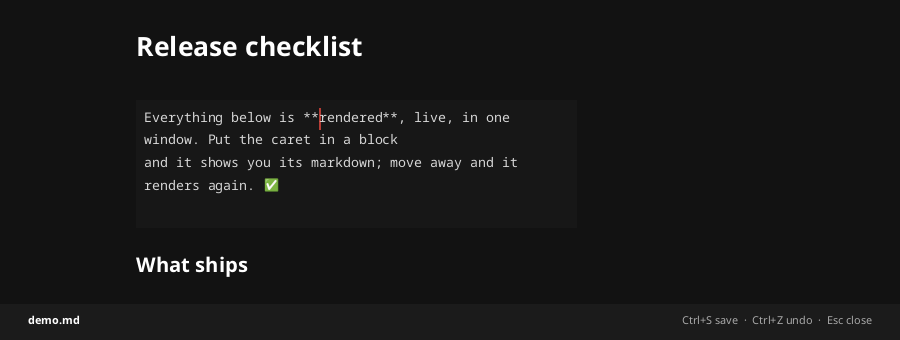
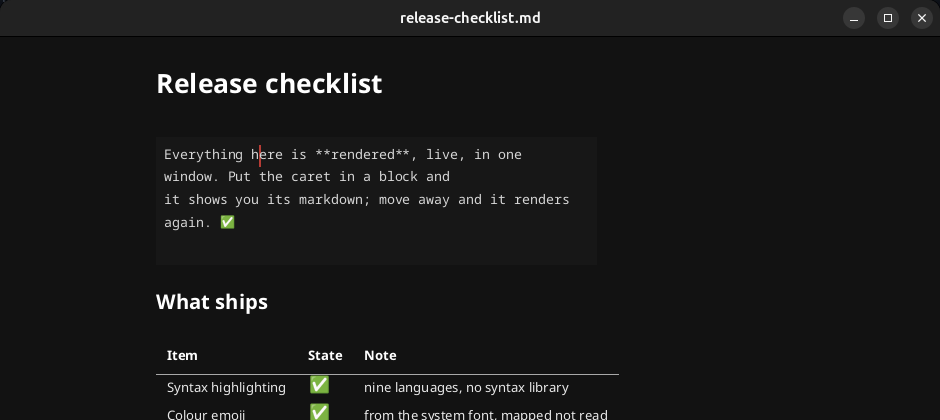
docs: screenshots of a real window, not a headless render
The README's hero already picked up the new icon -- `assets/icon.png` is
regenerated by `make-icons.py`. The two content screenshots were the stale part,
and they had a second problem worth fixing while I was there: they were `--shot`
output, which draws the document and the status bar and nothing else. No title
bar, no window. A reader could not tell what double-clicking a file actually
gives them.

These are captures of the real thing under mutter, with its decoration, titled
with the file it has open.

Getting a CLEAN rendered shot took three tries, and each failure was the program
being right:

  - The caret starts at byte 0, which is inside the first heading -- so the
    heading revealed its markdown and the "rendered" shot was an editing shot.
  - Clicking in the empty space below the content does not park the caret there.
    `Laid::hit` picks the NEAREST baseline, so a click below everything lands in
    the last block, which then revealed itself.
  - Appending trailing blank lines does not help either: pulldown-cmark's item
    ranges run to the start of the next block, so the blank lines are inside the
    list.

What works is a document that BEGINS with a blank line. Byte 0 is then before
the first block's range, `block_at` answers None, and everything renders -- with
just a caret bar where the cursor sits. Which is exactly the documented
behaviour of gaps between blocks, arrived at from the other direction.
[…]

diff --git a/README.md b/README.md
@@ -25,7 +25,7 @@ Nothing lives in the gap between "shows me the document" and "is already open".
 That gap is the whole of this program.
 
 <div align="center">
-<img src="docs/rendered.png" width="720" alt="mdblaze showing a rendered markdown document with a table, highlighted Rust, and colour emoji">
+<img src="docs/rendered.png" width="720" alt="mdblaze in a window, showing a rendered markdown document with a table, highlighted Rust, and colour emoji">
 </div>
 
 ## Editing is the same window
